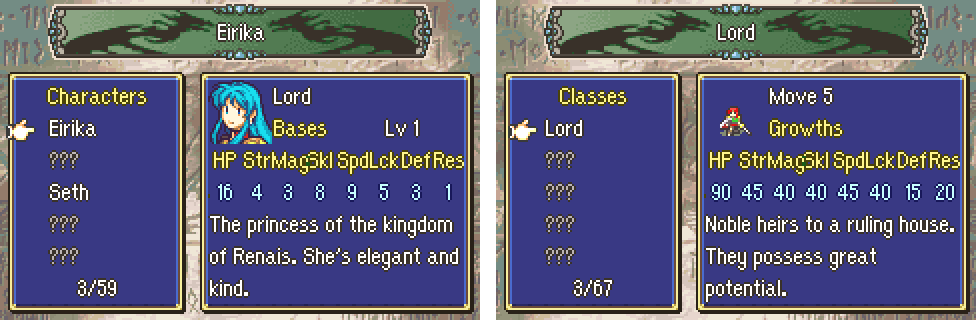
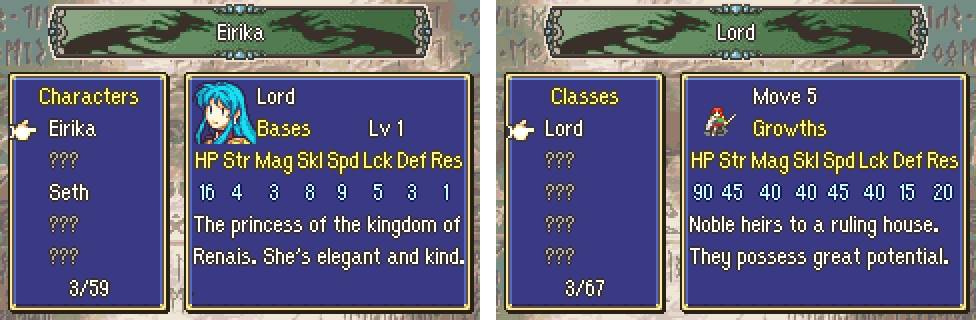
Bestiary: a narrower list, so the stat names stand apart (#734)
* Bestiary: Extras > Bestiary, every character and class met

A new Extras row (vanilla's trial-map bit 6) opens a screen with two tabs,
Characters and Classes: the names met (the rest as "???"), and for the one
under the cursor its mini portrait or map sprite, its class or movement,
bases or growths (A), and its description, wrapped.

- Met: at every phase start, each unit on the map the player can see (not
  hidden in fog) marks its character and class. Lists in
  Data/Bestiary/Bestiary.c; rows that share a name are merged.
- Kept per save, as one record for the cartridge: the bits live in RAM and
  in the bytes after the save tables of the game and suspend saves, after
  New Game+'s (new SaveData/Source/SaveTail.c shares them). Loading or
  starting a game takes in every other save's bits; the title shows the
  union. Not a chunk: the save layout and its signature do not change.
- The label "Bestiary" is assembled from vanilla's own label letters,
  placed round the Gallery's letters in the Extras sheet; the Extras list
  now reads gExtrasLabelSprites (8 entries).
- Smoke test test_bestiary; the Gallery test's route moves one row up.
- Docs: Bestiary.md, README, SaveData.md (no free SRAM), Menus.md,
  NewGamePlus.md, Gallery.md, a CLAUDE.md pitfall.

Claude-Session: https://claude.ai/code/session_01JBGikDP32ZYxx6qXR4N284

* Skill Codex: Extras > Skill Codex, every skill and the ones met

A new Extras row (bit 7, the last of the list's byte) opens a list of every
[…]

diff --git a/Kernel/Wizardry/Bestiary/Source/BestiaryScreen.c b/Kernel/Wizardry/Bestiary/Source/BestiaryScreen.c
@@ -3,6 +3,7 @@
 #include "strmag.h"
 #include "bestiary.h"
 #include "extras-ui.h"
+#include "utf8.h"
 #include "constants/texts.h"
 #include "constants/songs.h"
 
@@ -23,7 +24,7 @@
 /* The list's window and its rows (tiles) */
 #define LIST_X         0
 #define LIST_Y         4
-#define LIST_W         12
+#define LIST_W         11
 #define LIST_H         16
 #define TAB_Y          (LIST_Y + 1)
 #define ROW_Y          (LIST_Y + 3)
@@ -31,9 +32,9 @@
 #define COUNT_Y        (LIST_Y + 13)
 
 /* The info window (tiles) */
-#define INFO_X         12
+#define INFO_X         11
 #define INFO_Y         4
-#define INFO_W         18
+#define INFO_W         19
 #define INFO_H         16
 #define IMAGE_X        (INFO_X + 1)
 #define IMAGE_Y        (INFO_Y + 1)
@@ -42,7 +43,9 @@
 #define STATS_Y        (INFO_Y + 5)
 #define DESC_Y         (INFO_Y + 9)
 #define DESC_LINES     3
-#define INFO_IN_W      16 /* tiles inside the window */
+#define INFO_IN_W      17 /* tiles inside the window */
+#define NAME_PX        ((LIST_W - 4) * 8) /* a name's room in the list, right of the hand */
+#define STATS_PX       (INFO_IN_W * 8)
 #define DESC_PX        (INFO_IN_W * 8)
 
 #define CHIBI_TILE     EXTRAS_UI_FREE_TILE
@@ -205,6 +208,17 @@ static void Bestiary_DrawTitle(void)
 	ExtrasUi_PutCentred(&BS->title, 160, TEXT_COLOR_SYSTEM_WHITE, str, gBG0TilemapBuffer + TILEMAP_INDEX(5, 1));
 }
 
+/* A name for the list: in the narrow font when the normal one is wider than its room */
+static const char *Bestiary_ListName(int msg)
+{
+	char *str = GetStringFromIndex(msg);
+
+	if (GetStringTextLen(str) <= NAME_PX)
+		return str;
+
+	return Utf8ToNarrowFonts(str);
+}
+
 static void Bestiary_DrawList(void)
 {
 	char buf[16], *p;
@@ -226,7 +240,7 @@ static void Bestiary_DrawList(void)
 
 		if (Bestiary_Open(row))
 			ExtrasUi_PutLeft(&BS->names[r], TEXT_COLOR_SYSTEM_WHITE,
-					 GetStringFromIndex(Bestiary_NameOf(BS->tab, BS->rows[row])), tm);
+					 Bestiary_ListName(Bestiary_NameOf(BS->tab, BS->rows[row])), tm);
 		else
 			ExtrasUi_PutLeft(&BS->names[r], TEXT_COLOR_SYSTEM_GRAY, GetStringFromIndex(MSG_BESTIARY_LOCKED), tm);
 	}
@@ -249,24 +263,38 @@ static void Bestiary_ClearImage(void)
 			gBG2TilemapBuffer[TILEMAP_INDEX(IMAGE_X + x, IMAGE_Y + y)] = 0;
 }
 
-/* A table of 16-pixel columns: the stats' names in gold, their values under them in blue, each centred */
+/*
+ * A table across the window: the stats' names in gold, spaced by their own widths with the same gap between each
+ * two (the names differ: "Mag" is half as wide again as "HP", and equal columns put it against "Skl"); each value
+ * under its name in blue, centred on it.
+ */
 static void Bestiary_DrawStats(const int *vals)
 {
-	int c;
+	int c, w[8], sum = 0, gap, x;
 
 	ClearText(&BS->stats[0]);
 	ClearText(&BS->stats[1]);
 
 	for (c = 0; c < 8; c++) {
-		const char *name = GetStringFromIndex(sStatMsgs[c]);
-		char buf[8];
-		int w = GetStringTextLen(name);
+		/* GetStringFromIndex's buffer is shared: each name is read again to draw it */
+		w[c] = GetStringTextLen(GetStringFromIndex(sStatMsgs[c]));
+		sum += w[c];
+	}
 
-		Text_InsertDrawString(&BS->stats[0], c * 16 + (16 - w) / 2, TEXT_COLOR_SYSTEM_GOLD, name);
+	gap = sum < STATS_PX ? Div(STATS_PX - sum, 8) : 0;
+	x = gap / 2;
+
+	for (c = 0; c < 8; c++) {
+		char buf[8];
+		int vw;
+
+		Text_InsertDrawString(&BS->stats[0], x, TEXT_COLOR_SYSTEM_GOLD, GetStringFromIndex(sStatMsgs[c]));
 
 		ExtrasUi_PutNumber(buf, vals[c]);
-		w = GetStringTextLen(buf);
-		Text_InsertDrawString(&BS->stats[1], c * 16 + (16 - w) / 2, TEXT_COLOR_SYSTEM_BLUE, buf);
+		vw = GetStringTextLen(buf);
+		Text_InsertDrawString(&BS->stats[1], x + (w[c] - vw) / 2, TEXT_COLOR_SYSTEM_BLUE, buf);
+
+		x += w[c] + gap;
 	}
 
 	PutText(&BS->stats[0], gBG0TilemapBuffer + TILEMAP_INDEX(STATS_X, STATS_Y));

diff --git a/Documentation/Features/Bestiary.md b/Documentation/Features/Bestiary.md
@@ -23,12 +23,13 @@
 
 - **The banner** on top (the Sound Room's song banner) shows the name under the cursor, or "???" for one not met yet.
 - **The list** on the left, in a window: the tab ("Characters" or "Classes"), five names, and how many of the tab are
-  met (3/59). A name not met yet shows as "???", in grey. Up and down move the hand; left and right move five rows;
-  L or R changes the tab.
+  met (3/59). A name not met yet shows as "???", in grey; a name wider than the list shows in the narrow font
+  (Swordmaster, Necromancer). Up and down move the hand; left and right move five rows; L or R changes the tab.
 - **The info** on the right, in a window:
   - a character: the mini portrait, the class, "Bases" with the base level, or "Growths" (A switches);
   - a class: its map sprite, its movement, "Bases" or "Growths";
-  - the stats (HP, Str, Mag, Skl, Spd, Lck, Def, Res): a character's bases are its own plus its class's (as when it
+  - the stats (HP, Str, Mag, Skl, Spd, Lck, Def, Res), the names across the window with the same gap between each
+    two and each value centred under its name: a character's bases are its own plus its class's (as when it
     joins), magic from the magic tables (`gMagicPInfos`, `gMagicJInfos`); a class has no base luck (0);
   - the description (the character's or the class's help text), wrapped to the window, up to three lines.
 - B goes back to Extras.
